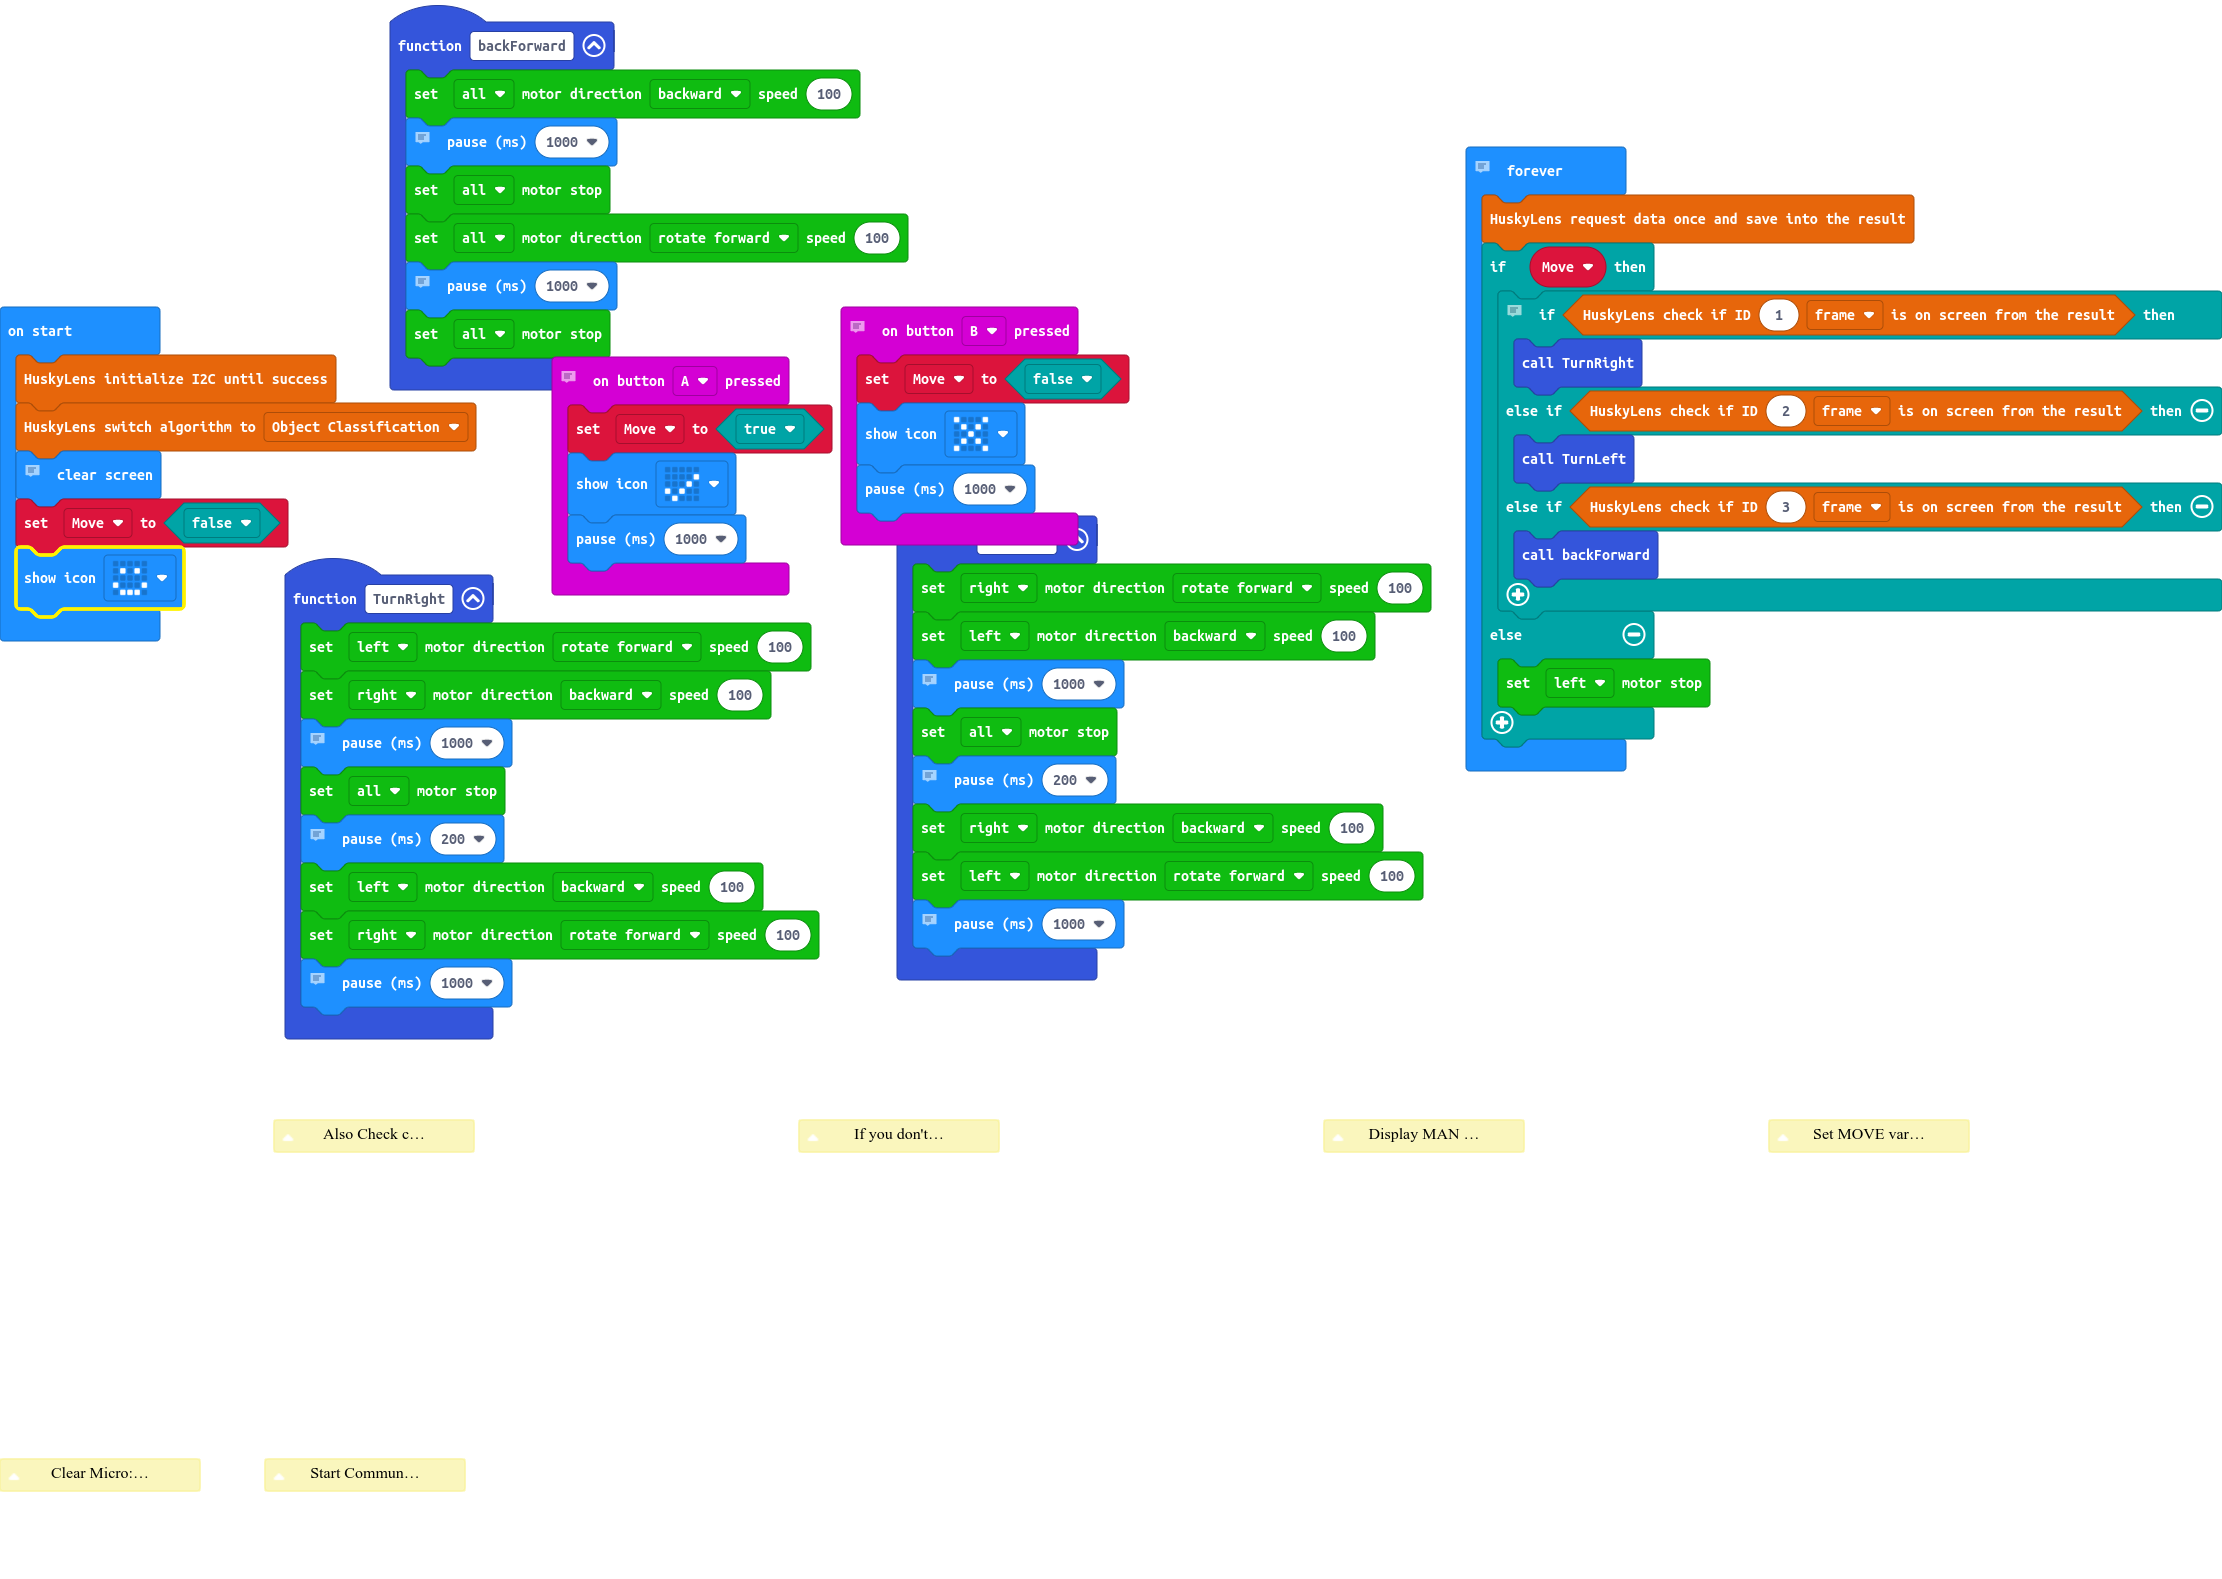
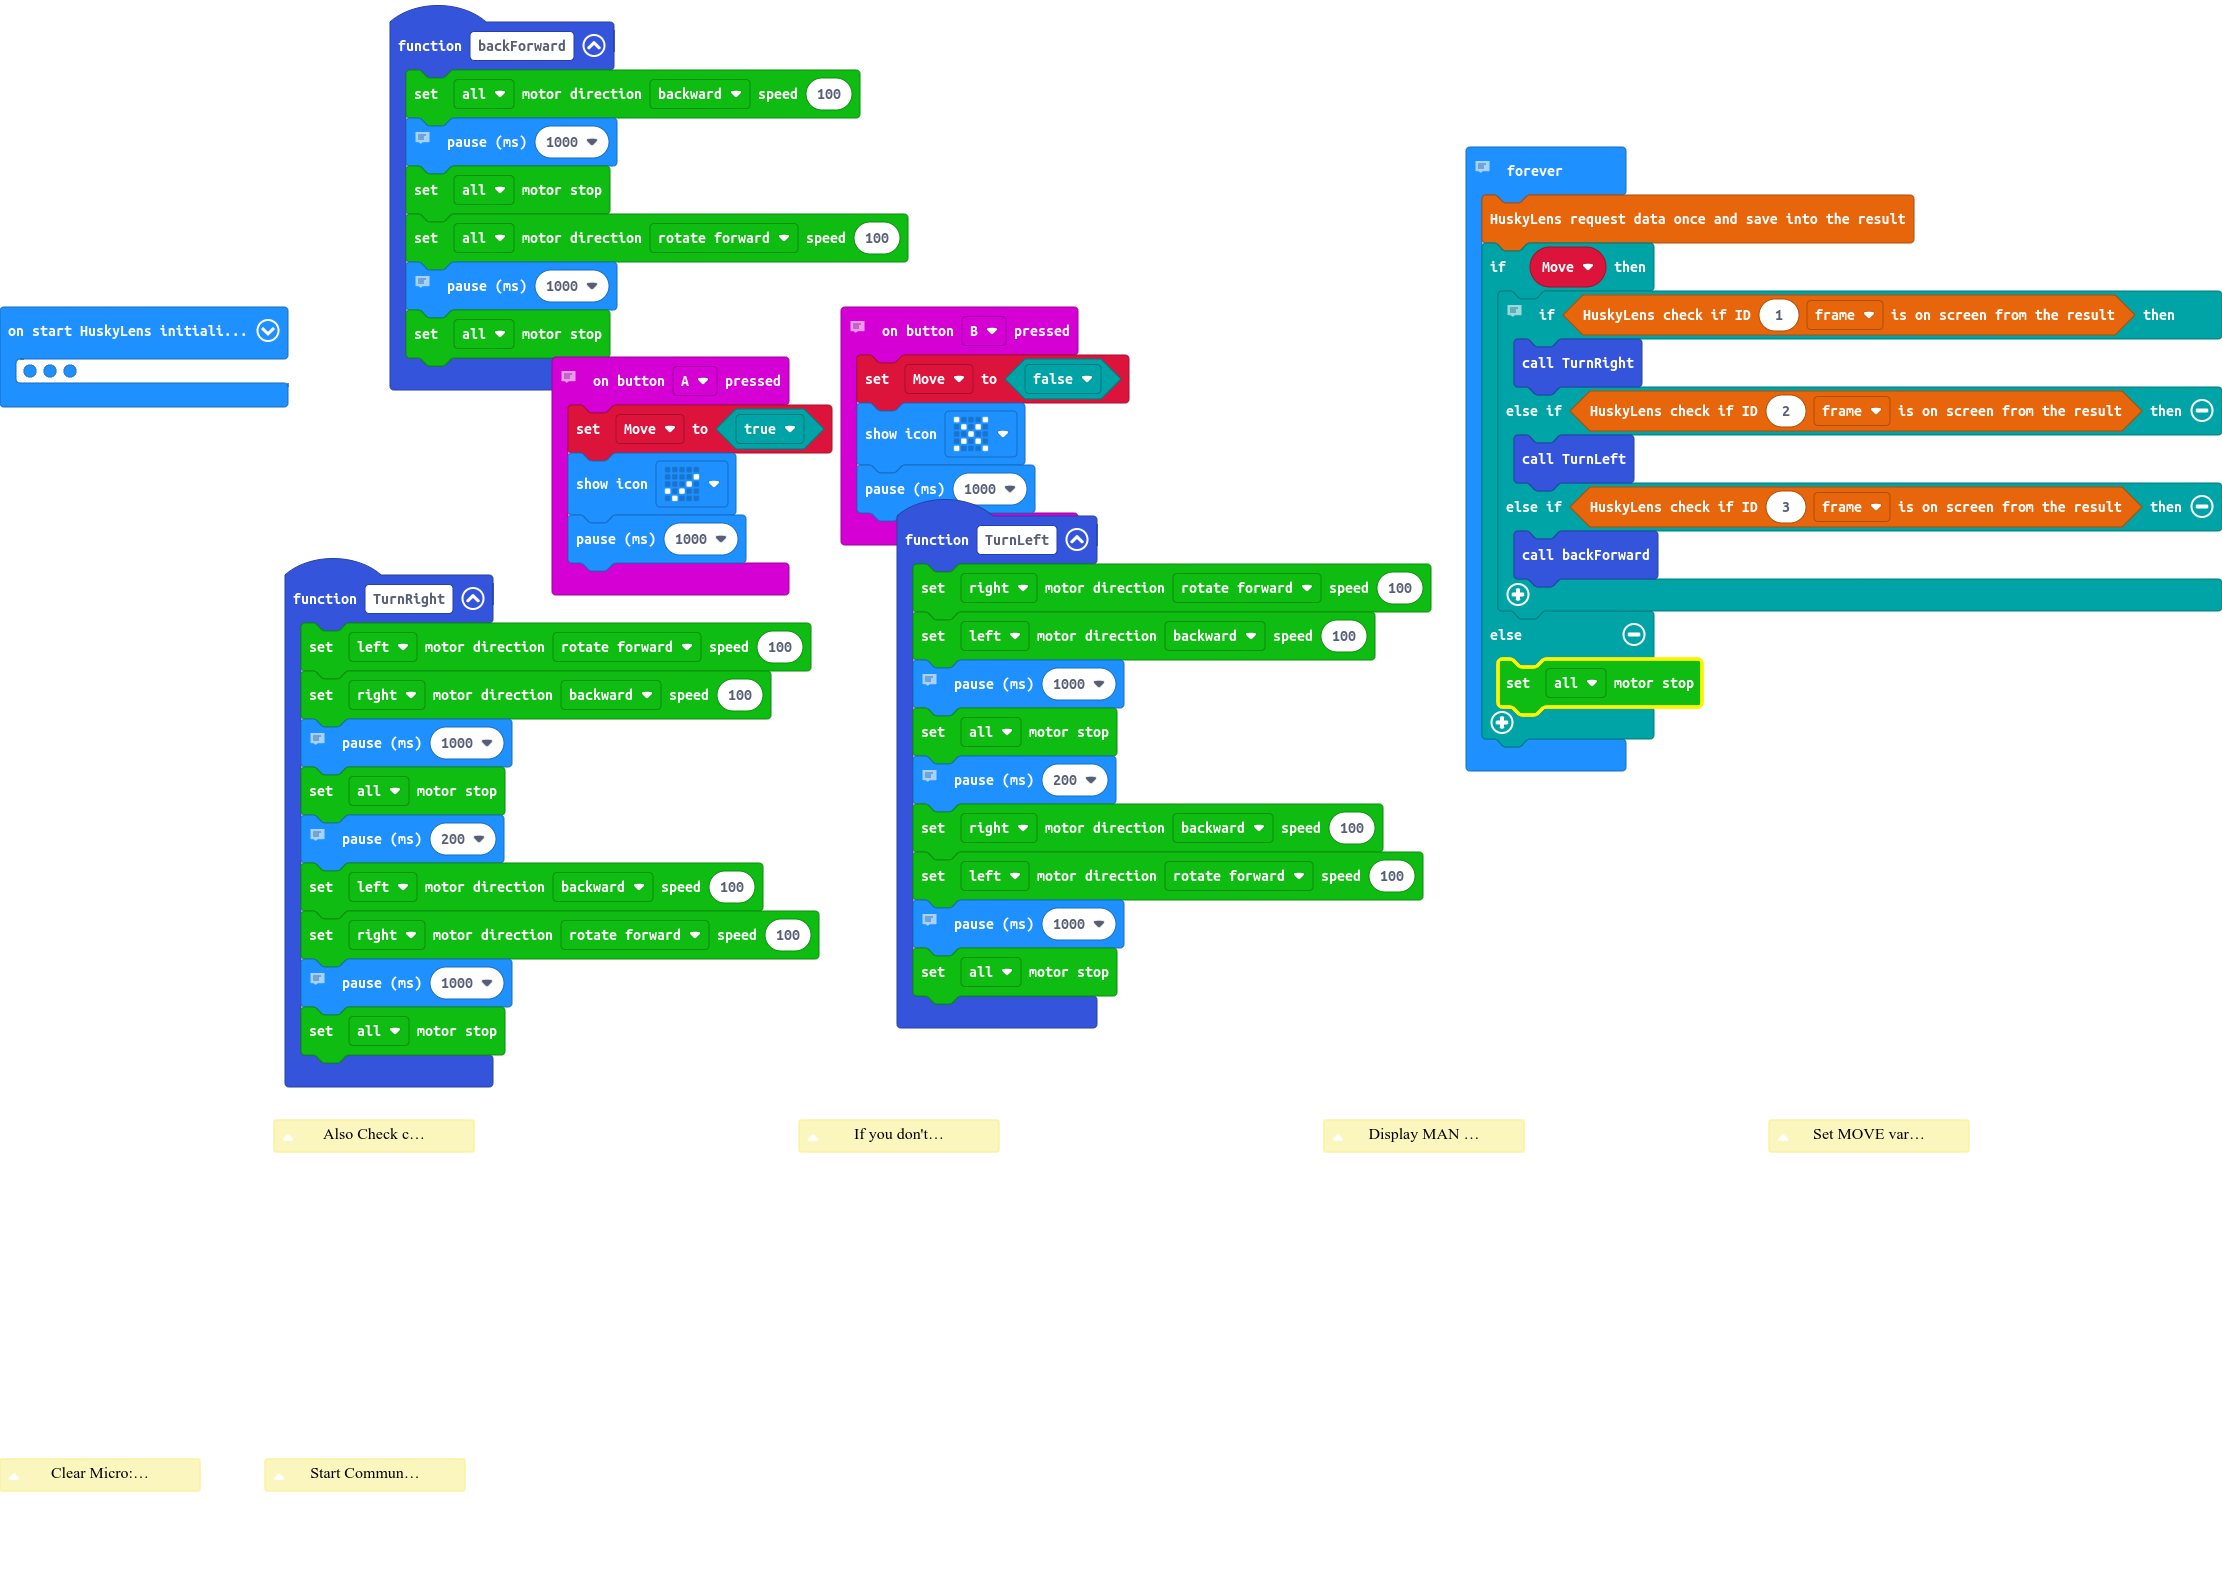
added motor stop to end of each function

diff --git a/main.ts b/main.ts
@@ -29,6 +29,7 @@ function TurnLeft () {
     // maqueen.writeLED(maqueen.LED.LEDLeft, maqueen.LEDswitch.turnOn)
     // maqueen.writeLED(maqueen.LED.LEDRight, maqueen.LEDswitch.turnOff)
     basic.pause(1000)
+    DFRobotMaqueenPlusV2.controlMotorStop(MyEnumMotor.eAllMotor)
 }
 // Set MOVE variable to TRUE - this "activates" the display loop in the FOREVER block
 // 
@@ -71,6 +72,7 @@ function TurnRight () {
     // maqueen.writeLED(maqueen.LED.LEDLeft, maqueen.LEDswitch.turnOn)
     // maqueen.writeLED(maqueen.LED.LEDRight, maqueen.LEDswitch.turnOff)
     basic.pause(1000)
+    DFRobotMaqueenPlusV2.controlMotorStop(MyEnumMotor.eAllMotor)
 }
 let Move = false
 huskylens.initI2c()
@@ -98,6 +100,6 @@ basic.forever(function () {
             backForward()
         }
     } else {
-        DFRobotMaqueenPlusV2.controlMotorStop(MyEnumMotor.eLeftMotor)
+        DFRobotMaqueenPlusV2.controlMotorStop(MyEnumMotor.eAllMotor)
     }
 })
